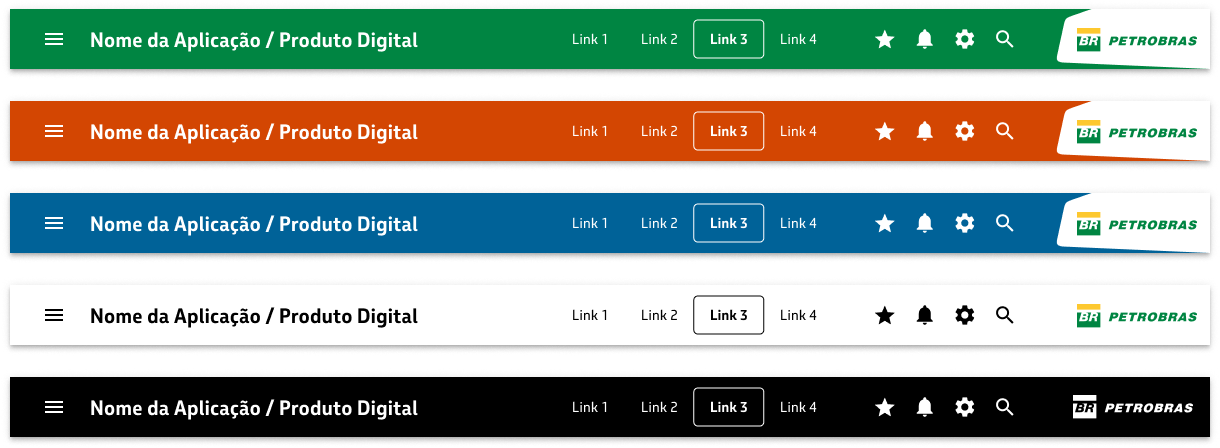
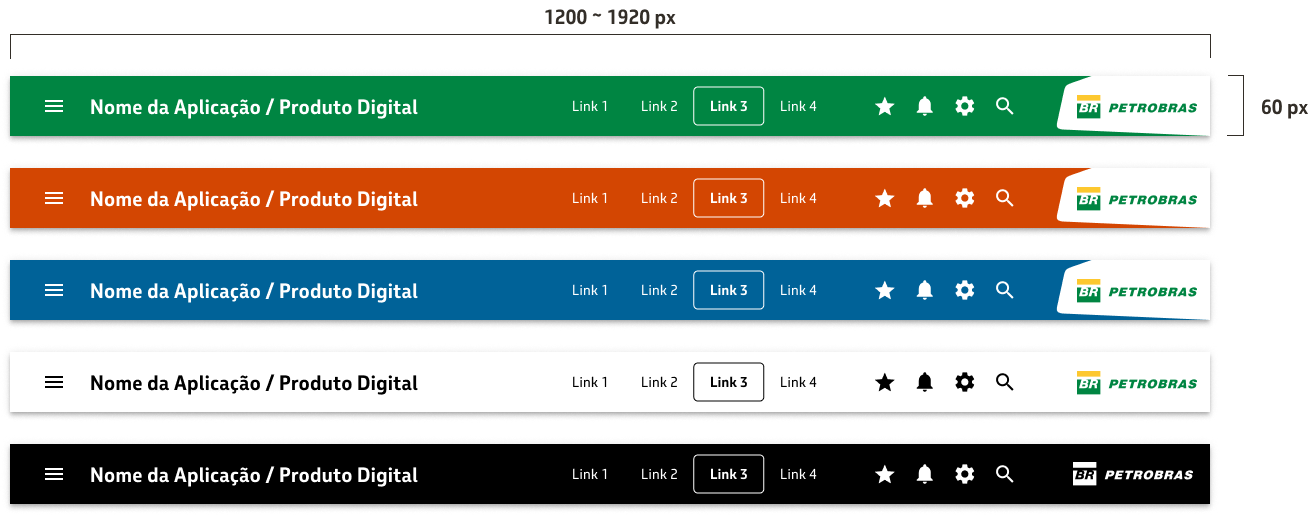
GITBOOK-240: No subject

diff --git a/tecnologias-e-plataformas/react/como-projetar-interfaces-usando-o-nafto-ui-kit-para-react.md b/tecnologias-e-plataformas/react/como-projetar-interfaces-usando-o-nafto-ui-kit-para-react.md
@@ -21,7 +21,9 @@ Ao projetar um **header** (também conhecido como **App Bar**) para uma aplicaç
 
 ### Exemplos de header
 
-<figure><img src="../../.gitbook/assets/conjunto-headers.png" alt=""><figcaption></figcaption></figure>
+
+
+<figure><img src="../../.gitbook/assets/conjunto-headers (3).png" alt=""><figcaption></figcaption></figure>
 
 ### Header com notas de acessibilidade
 
